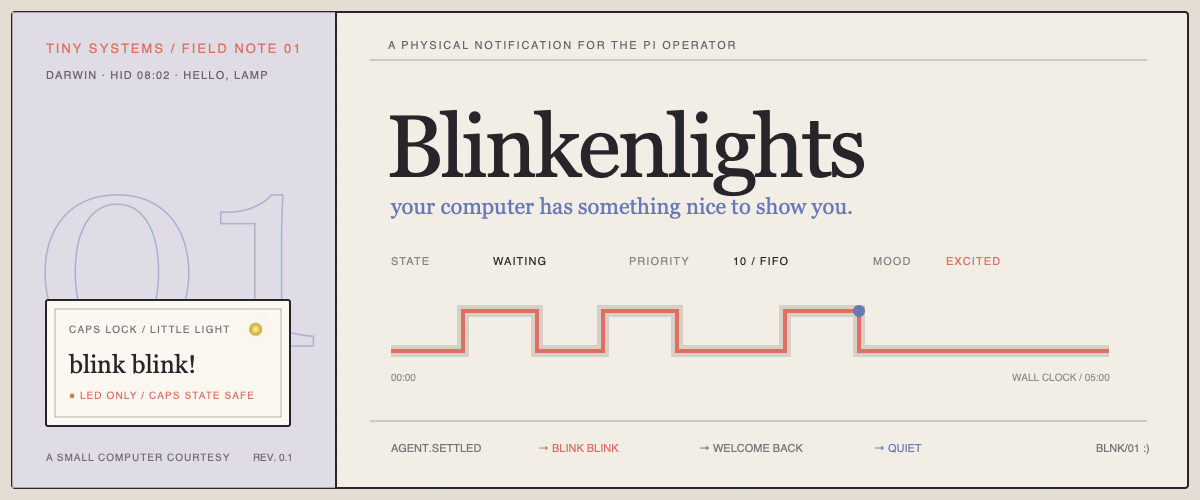
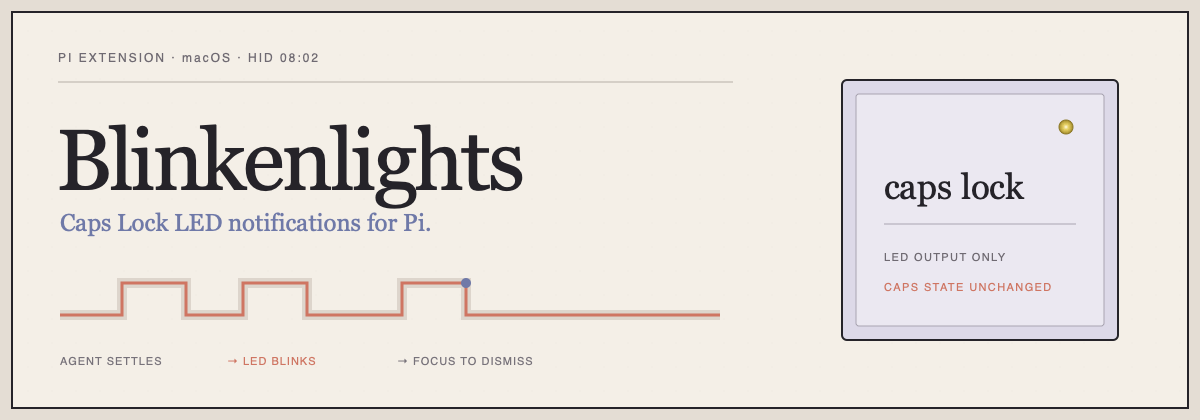
docs: simplify package presentation

diff --git a/README.md b/README.md
@@ -2,29 +2,10 @@
   <img src="assets/blinkenlights.svg" alt="Blinkenlights — physical notifications for Pi on macOS" width="960">
 </p>
 
-<p align="center">
-  <a href="https://pi.dev/packages"><img alt="Pi package" src="https://img.shields.io/badge/PI_PACKAGE-ONLINE-df6f61?style=flat-square&labelColor=27252a"></a>
-  <img alt="macOS only" src="https://img.shields.io/badge/HOST-DARWIN-6979b8?style=flat-square&labelColor=27252a&logo=apple">
-  <a href="LICENSE"><img alt="MIT license" src="https://img.shields.io/badge/LICENSE-MIT-df6f61?style=flat-square&labelColor=27252a"></a>
-</p>
 
-<p align="center">
-  <code>A SMALL COMPUTER COURTESY // HID LED 08:02</code>
-</p>
+Blinkenlights uses the **Caps Lock indicator LED** as a physical notification light for [Pi](https://pi.dev). It starts blinking when an agent finishes, and stops when you return to the terminal.
 
----
-
-Blinkenlights turns the **Caps Lock indicator LED** into a quiet, physical notification light for [Pi](https://pi.dev). Start a long task, look elsewhere, and let the keyboard blink when the agent finishes or opens a question. Return to the terminal and the light stops.
-
-```text
-[ PI:WORKING ] ──────────> [ AGENT:SETTLED ] ──────────> [ CAPS_LED:ASSERTED ]
-                                                                  │
-                                                   terminal focus │
-                                                                  ▼
-                                                         [ ACKNOWLEDGED ]
-```
-
-No cloud service. No key injection. No change to Caps Lock state.
+It runs locally, does not emit key events, and never changes Caps Lock state.
 
 > **Why “Blinkenlights”?** [Blinkenlights](https://en.wikipedia.org/wiki/Blinkenlights) is old hacker slang—and folklore—for the diagnostic lamps that decorated mainframes. This project keeps the affectionate part: computers are simply more charming when they can blink at you.
 
@@ -72,7 +53,9 @@ Blinkenlights compiles its tiny native helper on first use and caches the result
 Blinkenlights raises an alert when:
 
 - the agent settles; or
-- Pi opens `ask_user_question`, its structured questionnaire tool (with `question` and `questionnaire` recognized as compatibility names).
+- a tool named `ask_user_question`, `question`, or `questionnaire` starts.
+
+The question-tool integration is name-based. Pi does not currently expose a generic “waiting for user input” event, so unrelated third-party tools are not detected automatically. The third-party [`@juicesharp/rpiv-ask-user-question`](https://www.npmjs.com/package/@juicesharp/rpiv-ask-user-question) package registers `ask_user_question` and works out of the box.
 
 The current session acknowledges its alert when you focus the terminal, press a key, start another turn, answer the question, or shut down the session. The configured timeout is the final backstop.
 
@@ -80,13 +63,7 @@ The current session acknowledges its alert when you focus the terminal, press a 
 
 Every Pi process connects to one per-user coordinator over a Unix socket. Only that coordinator controls the physical LED.
 
-```text
- PI / PROJECT-A ──┐
- PI / PROJECT-B ──┼──[ UNIX SOCKET ]──> COORDINATOR ──> IOKIT HELPER ──> CAPS_LED
- PI / PROJECT-C ──┘          │                 │
-                      alert / ack       one active signal
-                      preview / DND      across all sessions
-```
+The coordinator arbitrates alerts, previews, and DND state across sessions, then starts one short-lived IOKit helper for the selected output.
 
 Scheduling is deterministic:
 